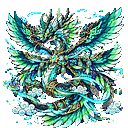
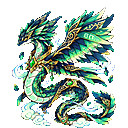
[THU 6j] Phong Nguyên Vũ Xà: thay bằng ảnh mới (rắn cánh lông vũ xanh), cắt kiểu D

diff --git a/thu-moi/TIEN_DO_DUA_VAO_GAME.md b/thu-moi/TIEN_DO_DUA_VAO_GAME.md
@@ -67,7 +67,7 @@ Trạng thái áp dụng D: ĐÃ cắt lại toàn bộ vùng 1, 2, 3 (30 con, 1
 - 6g Phong Bi (chờ duyệt): kiểu D, tỉ lệ thu 0.1452; bậc 1 cao 59px, bậc 2 cao 82px, bậc 3 cao 121px.
 - 6h Phong Lô (chờ duyệt): kiểu D, tỉ lệ thu 0.1424; bậc 1 cao 51px, bậc 2 cao 89px, bậc 3 cao 121px.
 - 6i Phong Tích (chờ duyệt): kiểu D, tỉ lệ thu 0.1472; bậc 1 cao 48px, bậc 2 cao 80px, bậc 3 cao 117px.
-- 6j Phong Nguyên Vũ Xà, BOSS (chờ duyệt): LÀM LẠI bằng ảnh mới (cánh lông vũ, thay bản cũ có vòng sáng + gió phát sáng). Kiểu D + `--gan-gan-nhat`, tỉ lệ thu 0.1548; bậc 1 cao 49px, bậc 2 cao 93px, bậc 3 cao 120px; bậc 3 tối ~28% (bản cũ ~20%), mảnh lẻ <30px còn 5 (bản cũ 9). Ảnh gốc mới tách nền từ magenta bằng công cụ tự viết + `hau_xu_ly_anh_thu.py --bg magenta`; PNG tách nền chưa có trong `thu-moi/phong-nguyen/` (file đó vẫn là ảnh cũ, chỉ đọc), người dùng giữ bản `phong-nguyen-10-phong-nguyen-vu-xa_v5-tach-nen.png`.
+- 6j Phong Nguyên Vũ Xà, BOSS (chờ duyệt): THAY LẦN 2 bằng ảnh người dùng gửi ngày 18/11/2026 (rắn cánh lông vũ xanh, nền magenta gốc, thay bản v5 trước). Tách nền bằng chroma-key magenta nối biên + `hau_xu_ly_anh_thu.py --bg magenta`, rồi `cat_3_bac.py ... 128 --kieu-d --gan-gan-nhat`. Tỉ lệ thu 0.1437; bậc 1 cao 53px, bậc 2 cao 96px, bậc 3 cao 121px; 0 pixel ám magenta. Đã so mắt trên nền sáng/tối: 3 bậc không dính nhau. Chưa kiểm trong game thật. Ảnh tách nền chưa nằm trong `thu-moi/phong-nguyen/` (thư mục chỉ đọc).
 - **Vùng 6 Phong Nguyên (z3) đã đủ 10 con (6a-6j), làm TRƯỚC vùng 5** vì người dùng gửi ảnh v4 trước. Ảnh gửi vào chat, alpha khớp từng pixel với `thu-moi/phong-nguyen/` trên nhánh. Tất cả dùng `--kieu-d --gan-gan-nhat` (không dùng cờ gán gần nhất thì lá / mây của bậc 3 dính vào bậc 2; đã so mắt trên 6a, 6d, 6g, 6h, 6j). PNG đã đẩy thẳng vào `thu-game/phong-nguyen/`.
 
 ## PNG (từ 1e trở đi đã đẩy thẳng bằng git; 1a-1d đã upload tay)
